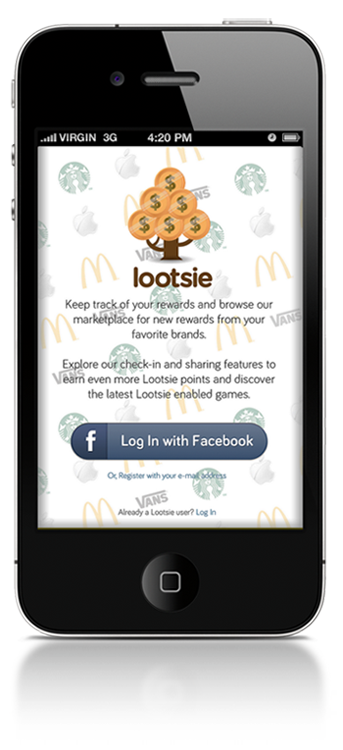
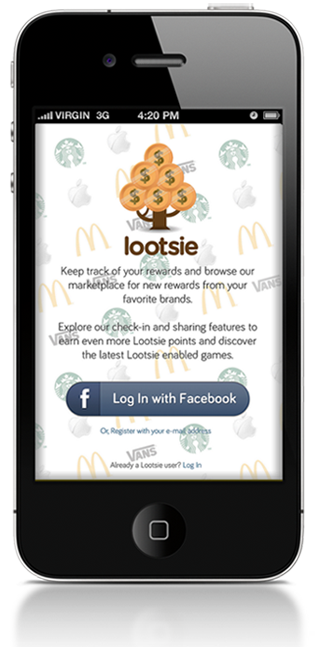
updates to the tour layout

diff --git a/public/stylesheets/style.css b/public/stylesheets/style.css
@@ -155,6 +155,14 @@ pre {
     margin-top: 0%;
     margin-bottom: 2%;
 }
+h1.bigheadliine {
+  font-size: 300%;
+  font-weight: 600;
+  font-family: Bariol_regular;
+  line-height: 1.125em;
+  color: #F89828;
+  margin-left: -20px;
+}
 
 /* I don't know why bootstrap has no bottom margin on their ul and ol classes, 
 even though I added them in, they don't override bootsrap, so this is a fix*/
@@ -251,6 +259,7 @@ code { color: #ea4800 }
 
 ul.square li {list-style-type:square}
 ul.circle li {list-style-type:disc}
+ul.no-list li {list-style-type: none}
 
 /* blockquotes / quotes / dropcap
 ================================================== */
@@ -449,7 +458,8 @@ img.bottom-shot {
   margin-bottom: -20px;
 }
 img.absolutecenter {
-  padding:5% 10%;
+  padding: 2% 20%;
+  max-width: 60%;
 }
 
 /*	figures/figcaption
@@ -599,6 +609,9 @@ ul.breadcrumb { background: transparent }
 .border-tb {
     border-bottom: 1px solid #d8dfe5;
     border-top: 1px solid #d8dfe5;
+}
+.iphone-icon {
+  background: transparent url("/images/iphone-icon.png") no-repeat 0 0;
 }
 
 /*  css3 columns on paragraphs only
@@ -1663,6 +1676,12 @@ hr {
     width: 100px!important;
     float: left;
 }
+
+img.absolutecenter {
+  padding: 0 10%;
+  width: 70%;
+}
+
 /* used on the home page to put the .well before the testimonials &
   on the contact page to put the form before the address on desktop */
 .row-fluid.reverse-order .span4,

diff --git a/public/stylesheets/tabs-toggle.css b/public/stylesheets/tabs-toggle.css
@@ -151,6 +151,7 @@ li.st-content-wrapper .st-content{
 	-webkit-border-radius: 8px;
 	-moz-border-radius: 8px;
 	border-radius: 8px;
+	font-size: 25px;
 }
 .s-accordion.fancy .trigger a.active {
 	background:#c7cfd6;
@@ -166,7 +167,7 @@ li.st-content-wrapper .st-content{
 .s-accordion.fancy li.s-wrap div.s-content {
 	padding:2% 3%;
 	border:1px solid #d8dfe5;
-	background:#f7f7f9;
+	/*background:#f7f7f9;*/
 	-webkit-border-radius: 0 0 8px 8px;
 	-moz-border-radius: 0 0 8px 8px;
 	border-radius: 0 0 8px 8px;

diff --git a/public/javascripts/scripts.js b/public/javascripts/scripts.js
@@ -222,6 +222,7 @@ $(document).ready(function(){
 //  });
 
        $('.s-accordion li.s-wrap div.s-content').hide();
+       $('.s-accordion li.s-wrap div.s-content:first').show();
        $('.s-accordion li.s-wrap .trigger a').click(function(){
           if ($(this).hasClass('active')) {
                $(this).removeClass('active');
